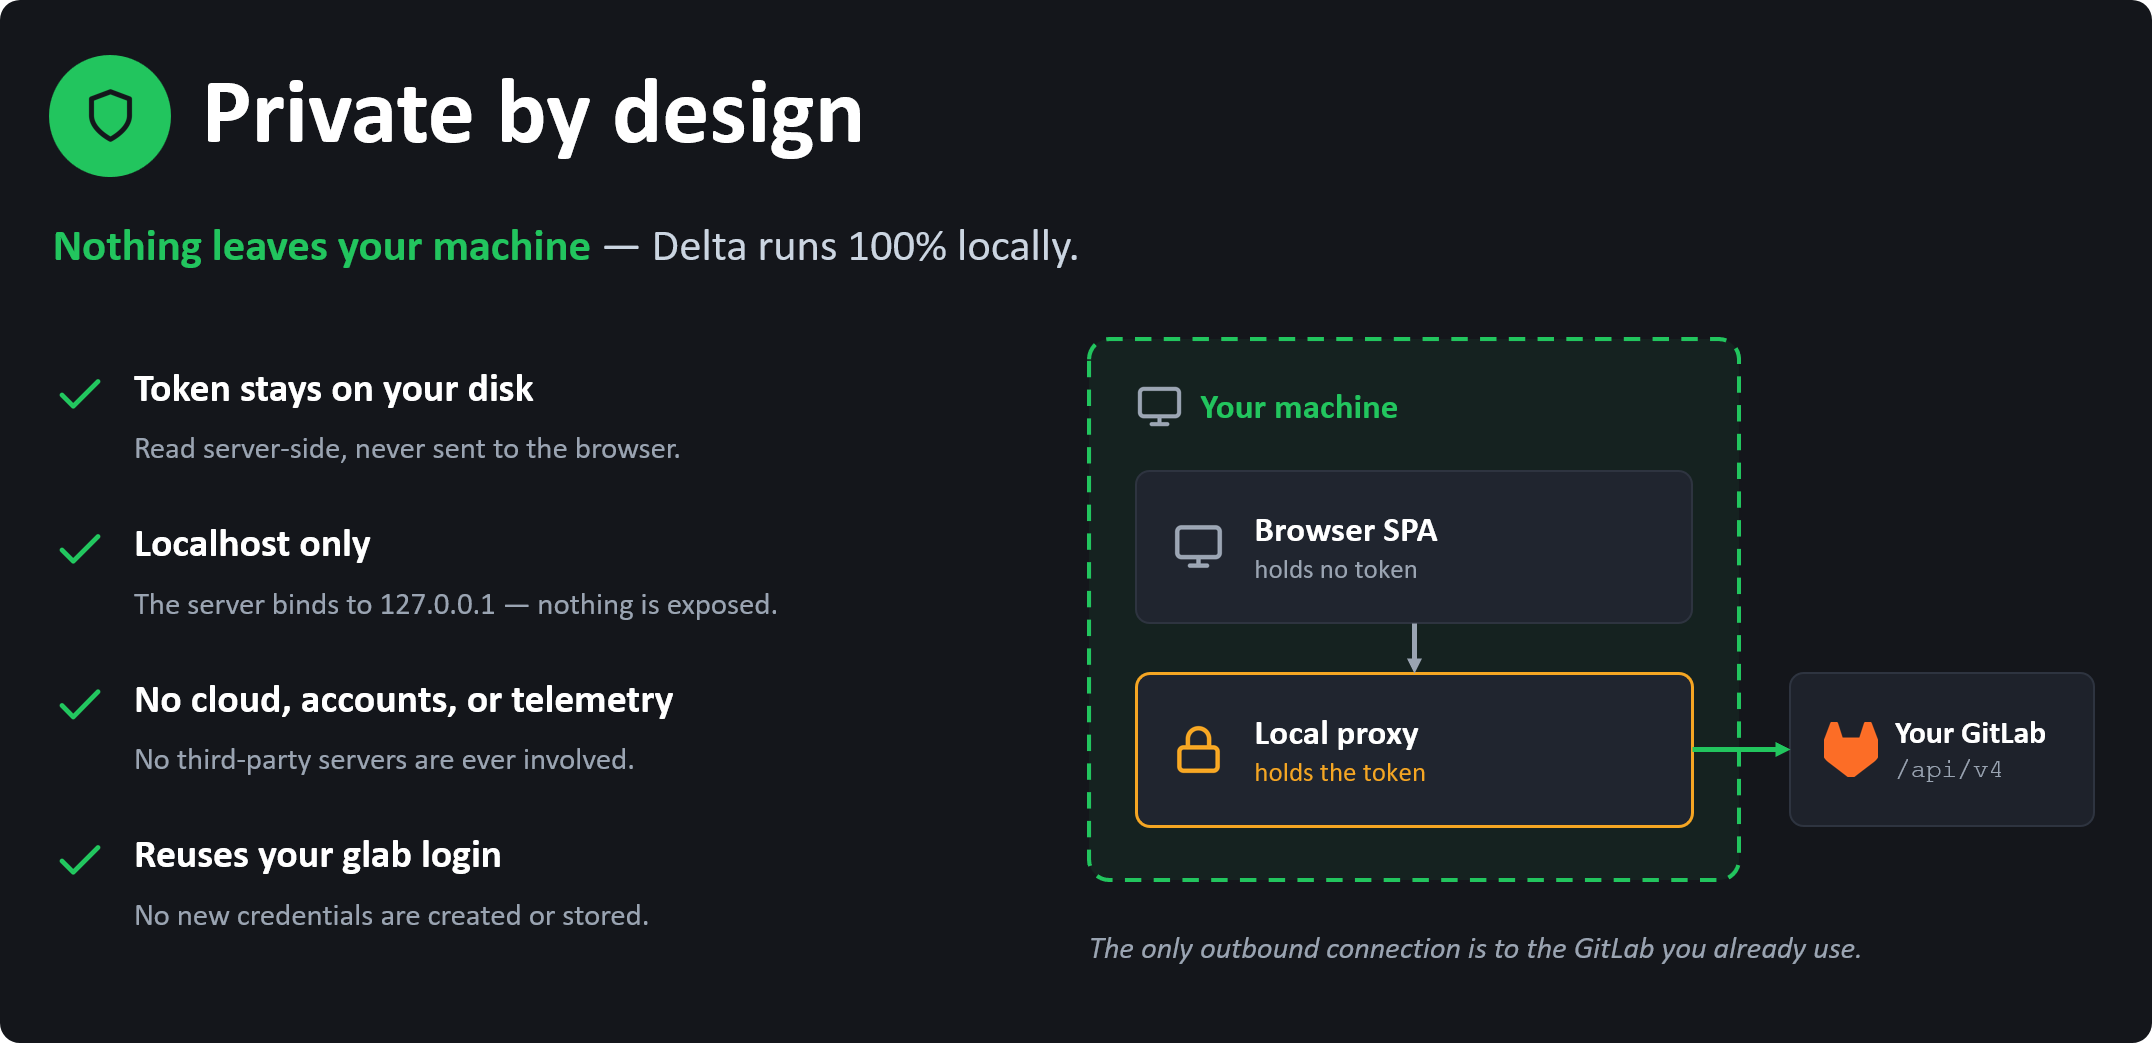
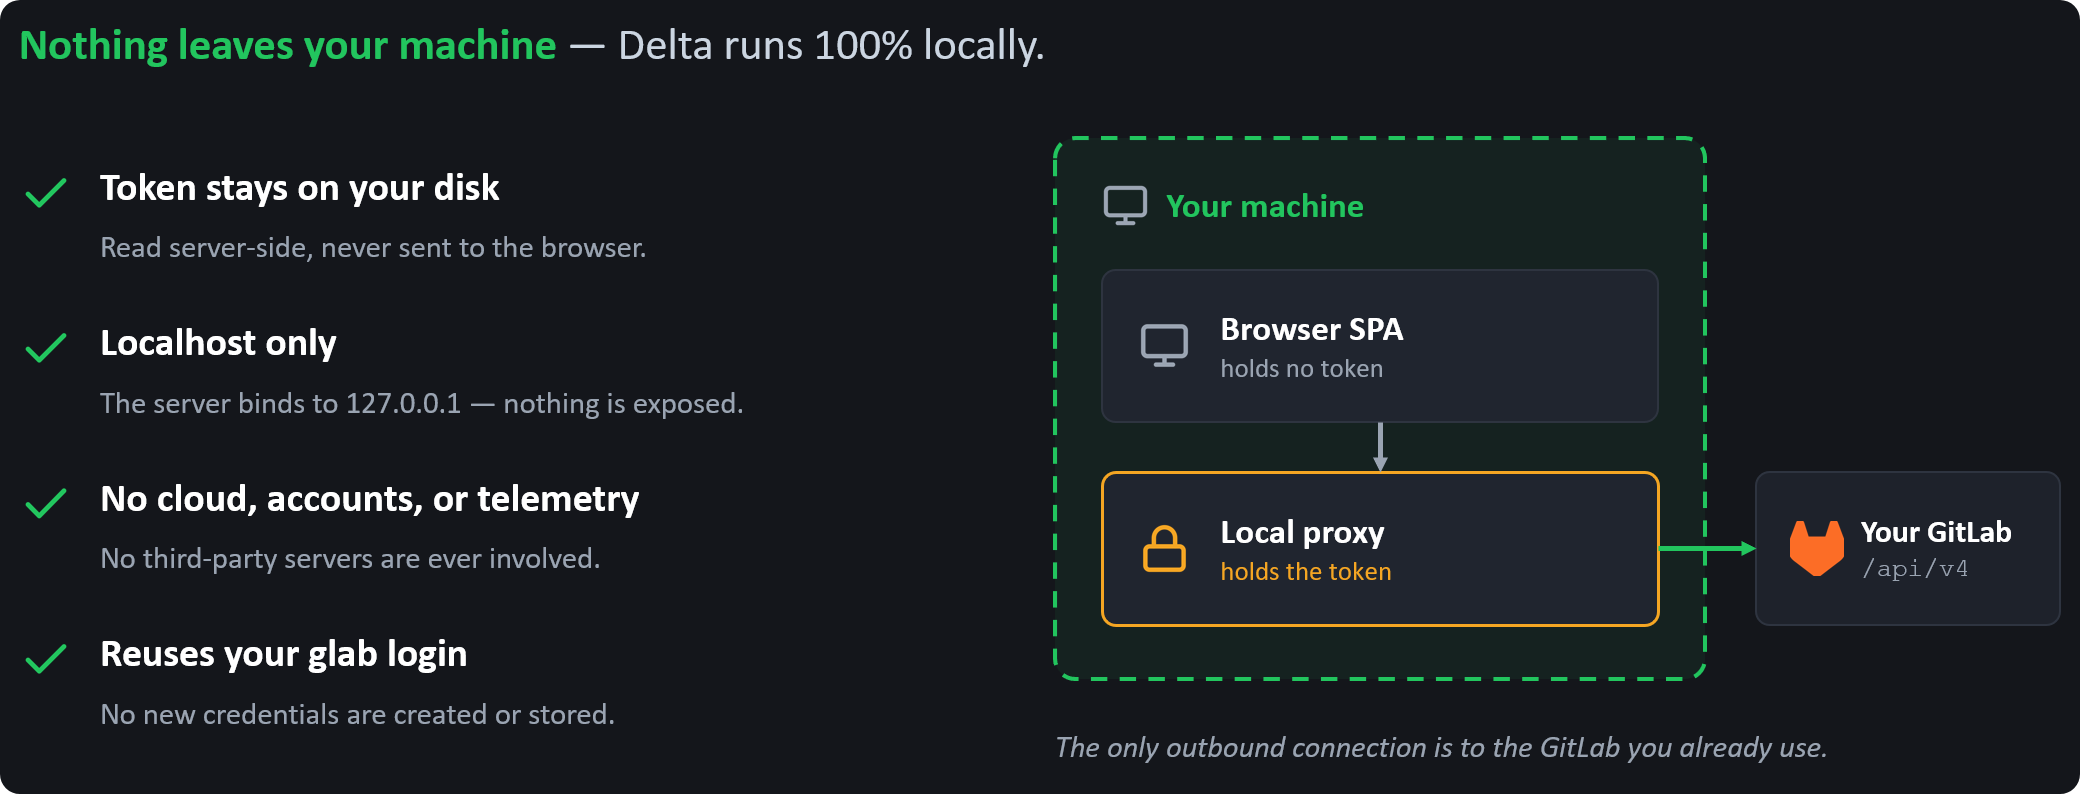
docs: streamline README around visuals

diff --git a/README.md b/README.md
@@ -4,69 +4,21 @@
 
 # delta-review
 
-Delta is a local-first GitLab merge-request review interface designed to make
-large diffs and inline discussions feel fast.
+Delta is a fast, local-first interface for reviewing GitLab merge requests.
+It reuses your existing `glab` authentication and keeps GitLab as the source
+of truth.
 
-> **Status:** Design stage. The product direction and implementation plan are
-> documented, but there is not yet an installable release.
-
-## The review loop
-
-Delta is focused on the work reviewers do repeatedly:
-
-- navigate a virtualized file tree and unified or split diffs;
-- read existing inline discussions;
-- reply and resolve or unresolve threads; and
-- select a line or range and post a verified inline comment.
-
-GitLab remains the source of truth. Delta does not create a separate review
-system, and the first release will not include batched reviews, approvals,
-merge-request authoring, or pipeline controls.
+> **Status:** Early development. There is no installable release yet.
 
 ## How it works
 
-The browser talks only to a loopback FastAPI server. That server resolves the
-current GitLab host and authentication through `glab`, calls the GitLab API,
-and serves a prebuilt React interface. End users will run the Python package
-with `uvx` and will not need Node.js or npm.
-
 ![Browser SPA to local proxy to GitLab API architecture](./delta-assets/how_works.png)
-
-The concept image shows a self-hosted instance; the public architecture uses
-the same flow for GitLab.com.
-
-The public version is intended to support both GitLab.com and self-hosted
-GitLab. It will feature-detect version-dependent APIs, prefer paginated diffs,
-and verify that each new comment was actually anchored to the selected line.
 
 ## Private by design
 
-The server binds only to `127.0.0.1`. The GitLab token stays server-side,
-never enters the browser, and is never sent to a Delta-hosted service. Delta
-will ship without accounts or telemetry.
-
 ![Delta privacy model](./delta-assets/private.png)
 
-In the privacy image, "nothing leaves your machine" means that nothing is sent
-to a Delta-operated service. Delta still exchanges review data and comments
-with the GitLab instance the user selects.
+## Design notes
 
-## Project direction
-
-The planned public MVP uses:
-
-- Python, FastAPI, httpx, and uvicorn for the local server;
-- React, TypeScript, and Vite for the browser interface;
-- TanStack Query and virtualization for responsive navigation; and
-- `@git-diff-view/react` for unified and split diff rendering.
-
-The repository and Python distribution are named `delta-review`. The interface
-keeps the shorter Delta branding and installs `delta` as its console command.
-The exact launch command will be documented once the package exists.
-
-## Design resources
-
-- [Original self-hosted product design](./design-doc.md)
-- [Approved public-tool design](./docs/superpowers/specs/2026-07-16-delta-public-tool-design.md)
-- [Public MVP implementation plan](./docs/superpowers/plans/2026-07-16-delta-public-mvp.md)
-- [Original self-hosted concept presentation](./delta-assets/how-delta-works.pptx)
+- [Product design](./design-doc.md)
+- [Architecture slides](./delta-assets/how-delta-works.pptx)